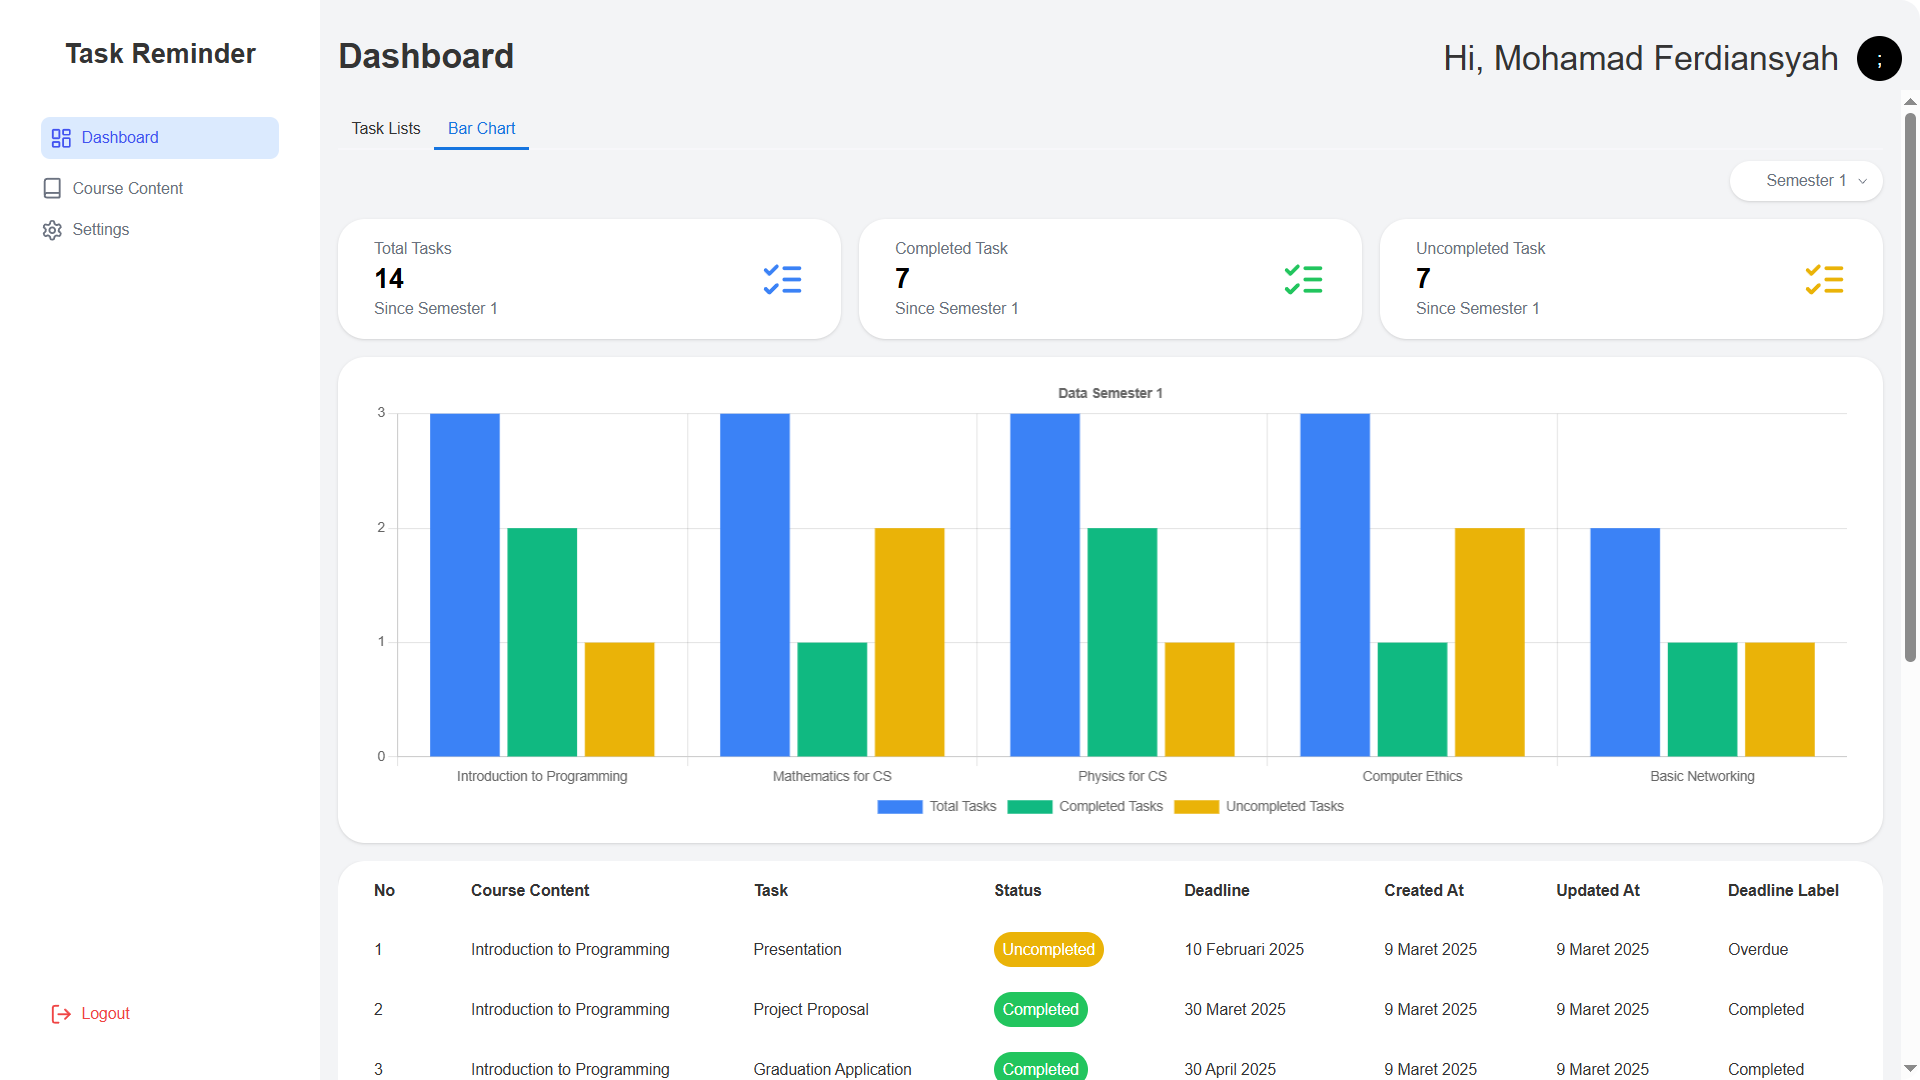
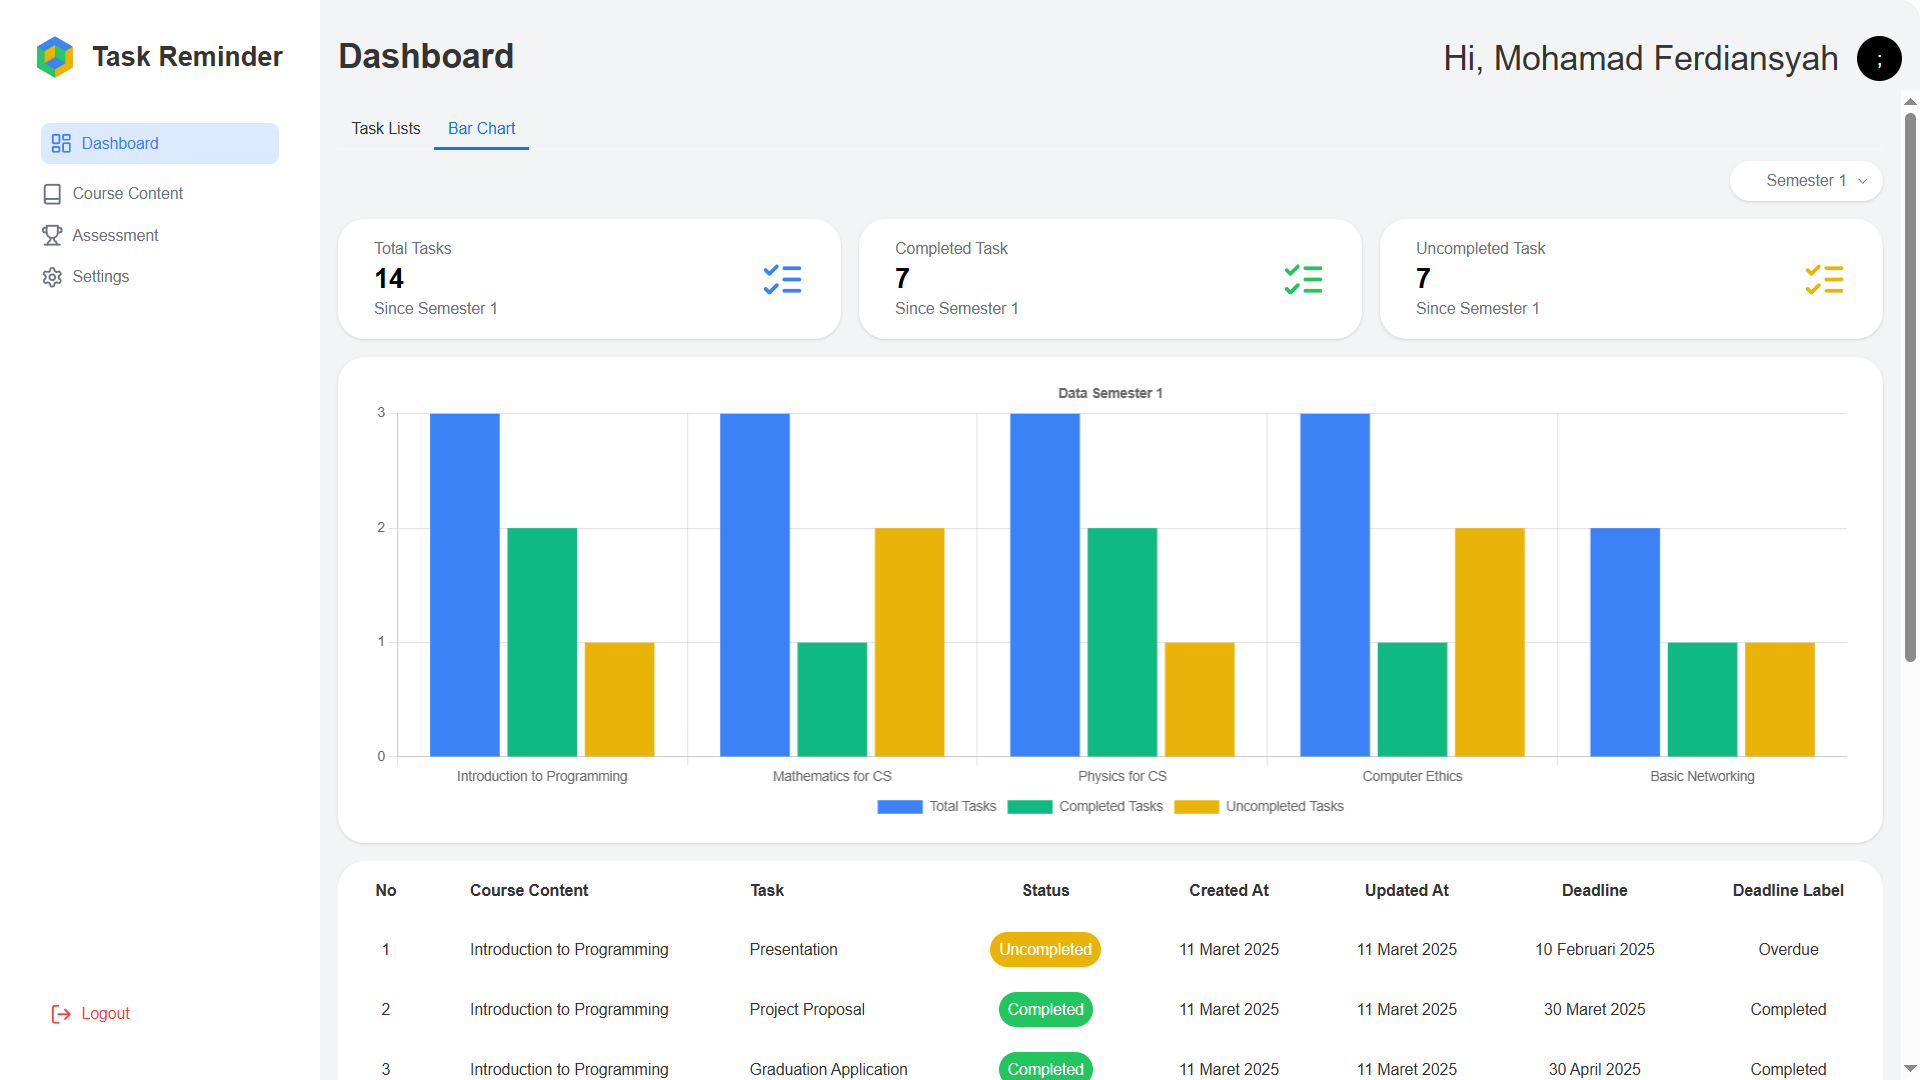
feat: update README for clarity; enhance feature descriptions; remove course content screenshot; add assessments and grades screenshots

diff --git a/README.md b/README.md
@@ -4,15 +4,12 @@ Task Reminder adalah aplikasi pengingat tugas kuliah yang dirancang untuk memban
 
 ## Fitur
 
-- **Pengingat Otomatis**: Aplikasi akan mengirimkan pengingat kepada pengguna tentang tugas yang mendekati tenggat waktu.
-- **Penjadwalan Tugas**: Pengguna dapat menambahkan tugas dengan tanggal jatuh tempo dan waktu pengingat yang dapat disesuaikan.
-- **Antarmuka Pengguna yang Ramah**: Aplikasi dirancang dengan antarmuka yang mudah digunakan untuk memberikan pengalaman pengguna yang nyaman.
-- **Prioritas Tugas**: Pengguna akan dapat menetapkan prioritas tugas untuk membantu memfokuskan pada pekerjaan yang lebih penting.
-- **Chart**: Tampilan grafik untuk memvisualisasikan jumlah tugas berdasarkan semester, memungkinkan pengguna melihat distribusi tugas mereka sepanjang semester berdasarkan status.
-
-## Upcoming Feature
-
-- **Penilaian**: Fitur yang memungkinkan mahasiswa untuk mencatat dan melacak nilai akademik mereka di setiap mata kuliah. Sistem akan secara otomatis menghitung Indeks Prestasi Semester (IPS) dan Indeks Prestasi Kumulatif (IPK) berdasarkan nilai yang dimasukkan di Course Content.
+- **Pengingat Otomatis**: Mengirim notifikasi kepada pengguna untuk tugas yang mendekati tenggat waktu, memastikan tidak ada tugas yang terlewat.
+- **Penjadwalan Tugas**: Memungkinkan pengguna menambahkan tugas dengan tanggal jatuh tempo serta pengingat yang dapat disesuaikan sesuai kebutuhan.
+- **Antarmuka Pengguna yang Ramah**: Dirancang dengan tampilan sederhana dan intuitif untuk memberikan pengalaman pengguna yang nyaman dan efisien.
+- **Prioritas Tugas**: Memungkinkan pengguna menetapkan tingkat kepentingan pada setiap tugas untuk membantu fokus pada pekerjaan yang lebih mendesak.
+- **Chart**: Menampilkan grafik jumlah tugas berdasarkan semester dan status, membantu pengguna memahami distribusi tugas secara keseluruhan.
+- **Penilaian**: Memungkinkan mahasiswa mencatat nilai untuk setiap mata kuliah, dengan sistem yang otomatis menghitung IPS dan IPK berdasarkan data yang dimasukkan.
 
 ## Screenshot
 
@@ -24,8 +21,14 @@ Berikut adalah tampilan antarmuka aplikasi Task Reminder:
 ### Bar Chart
 ![Task Reminder Bar Chart Screenshot](./screen/bar-chart.png)
 
-### Course Content
-![Task Reminder Course Content Screenshot](./screen/course-content.png)
+### Course Contents
+![Task Reminder Course Contents Screenshot](./screen/course-contents.png)
+
+### Assessments
+![Task Reminder  Screenshot](./screen/assessments.png)
 
 ### Settings
 ![Task Reminder Settings Screenshot](./screen/settings.png)
+
+### Grades
+![Task Reminder Grades Screenshot](./screen/grades.png)
